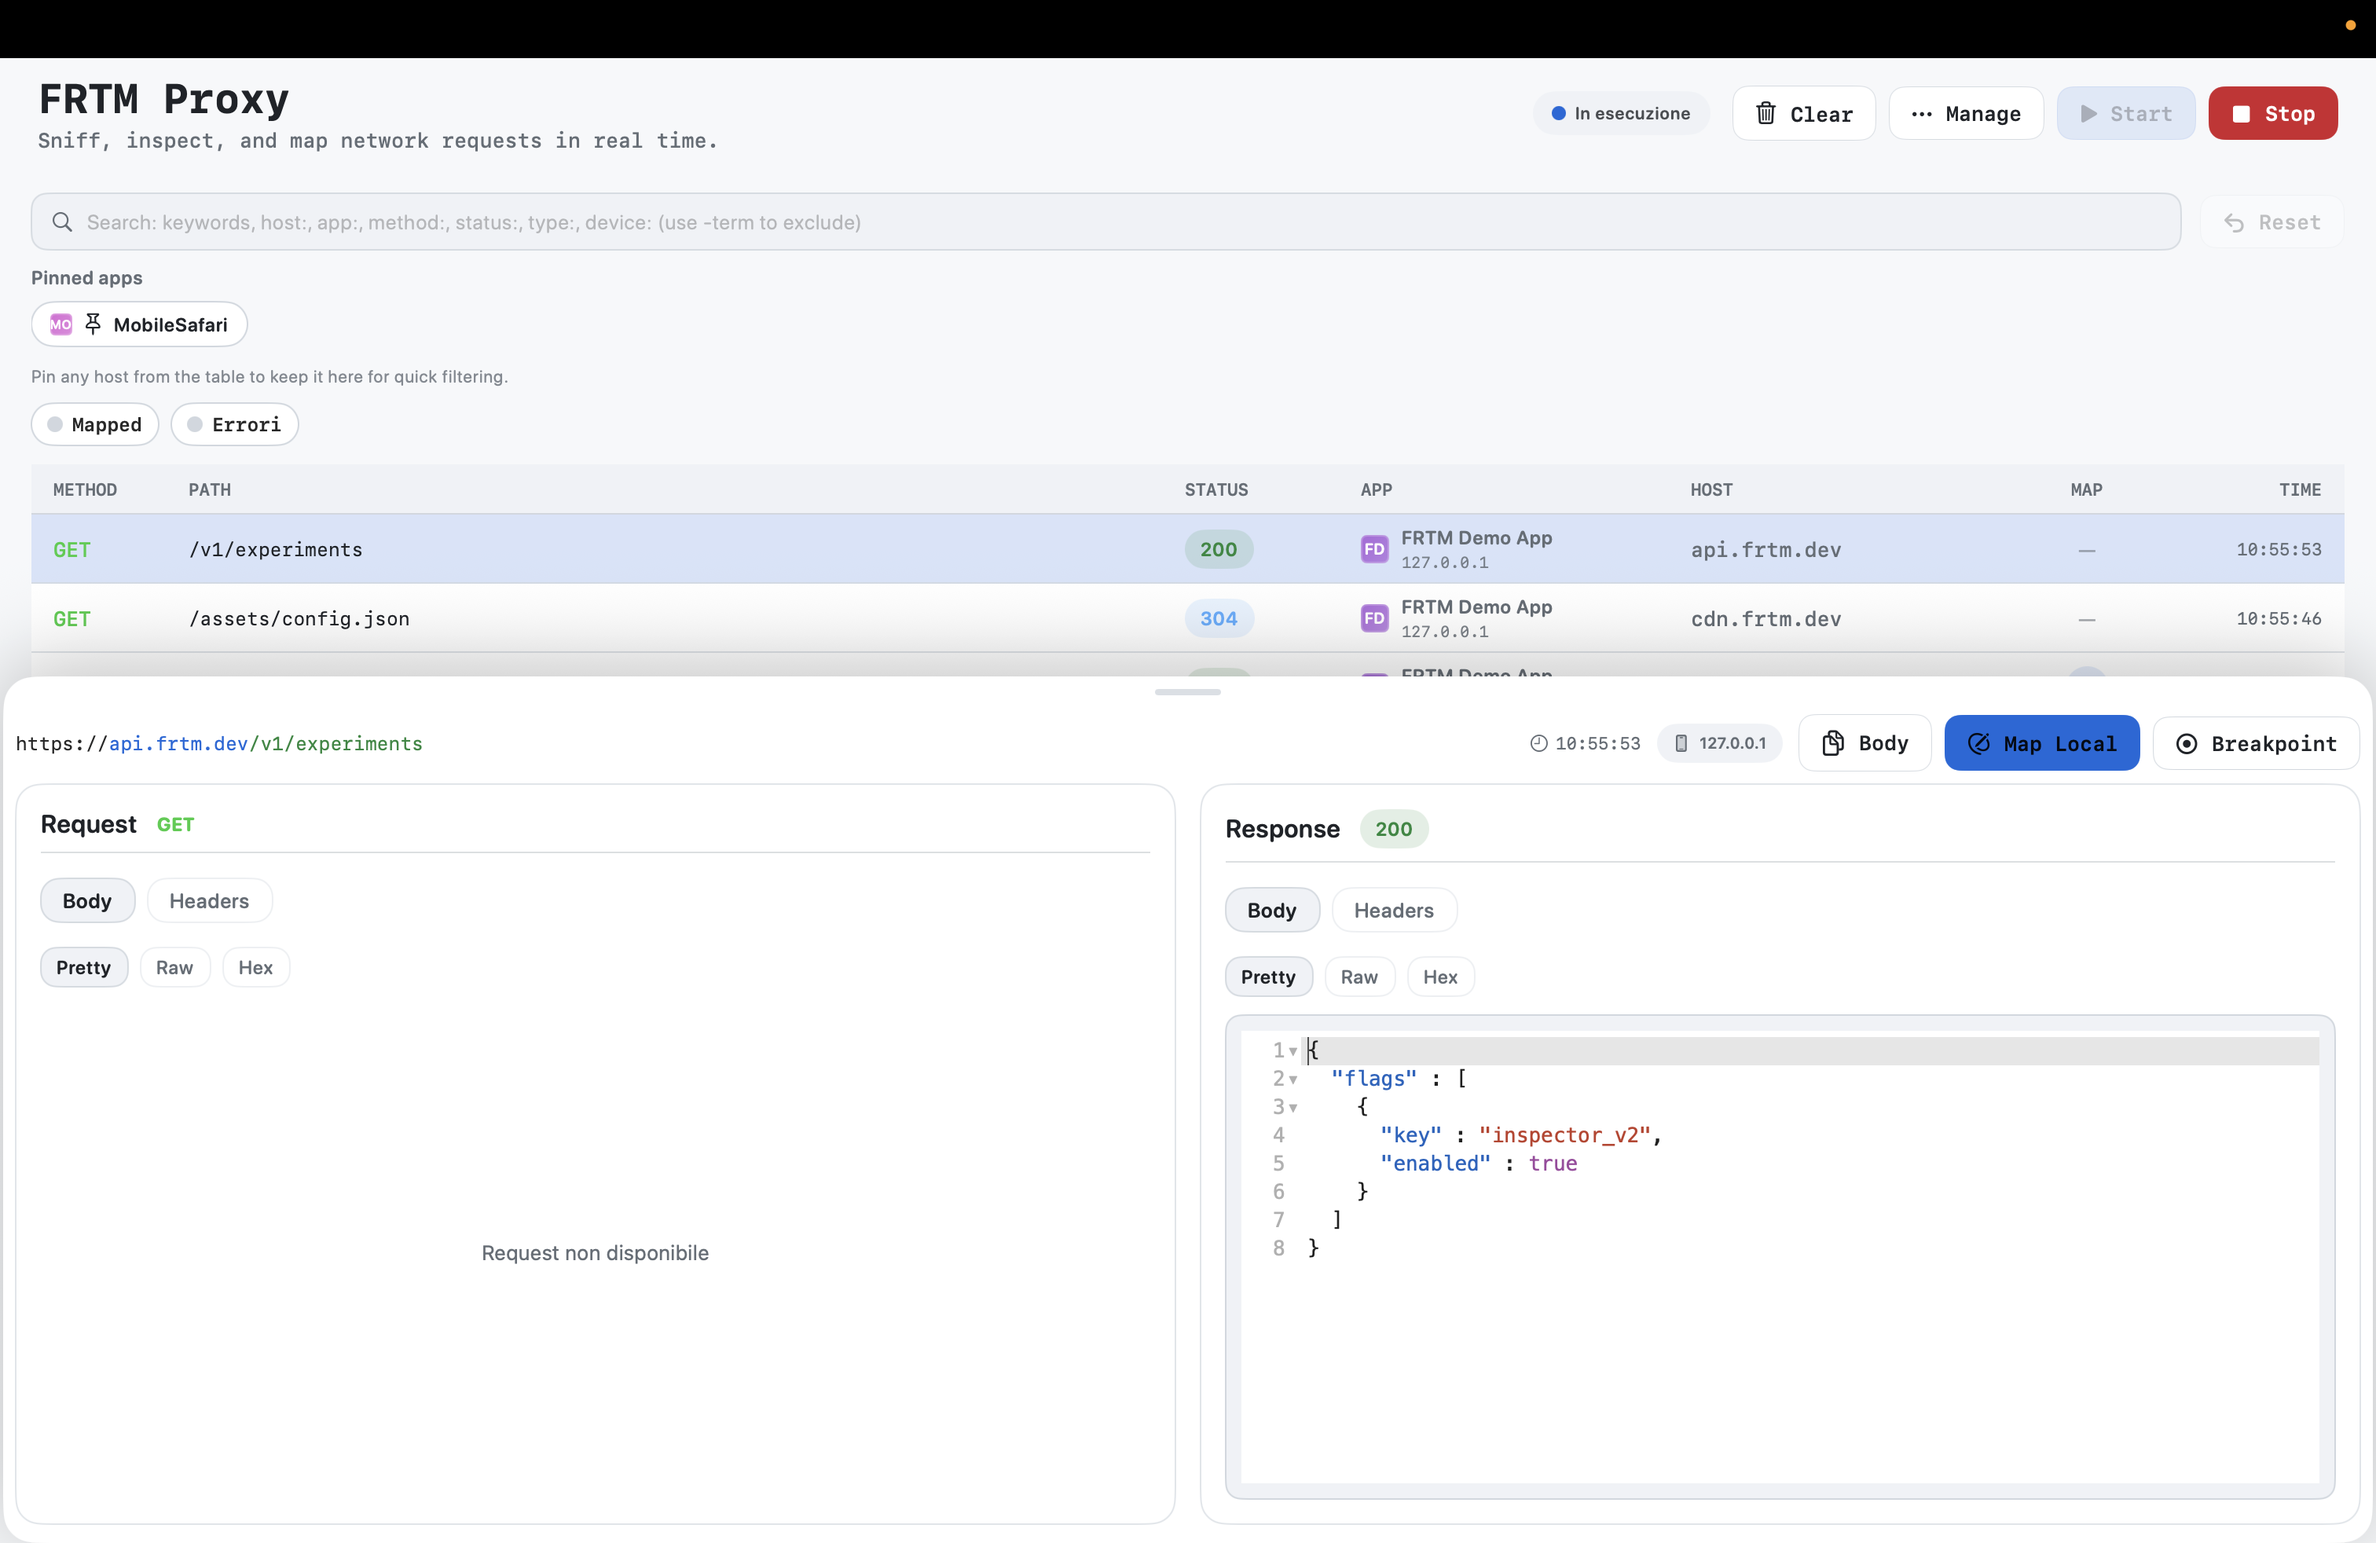
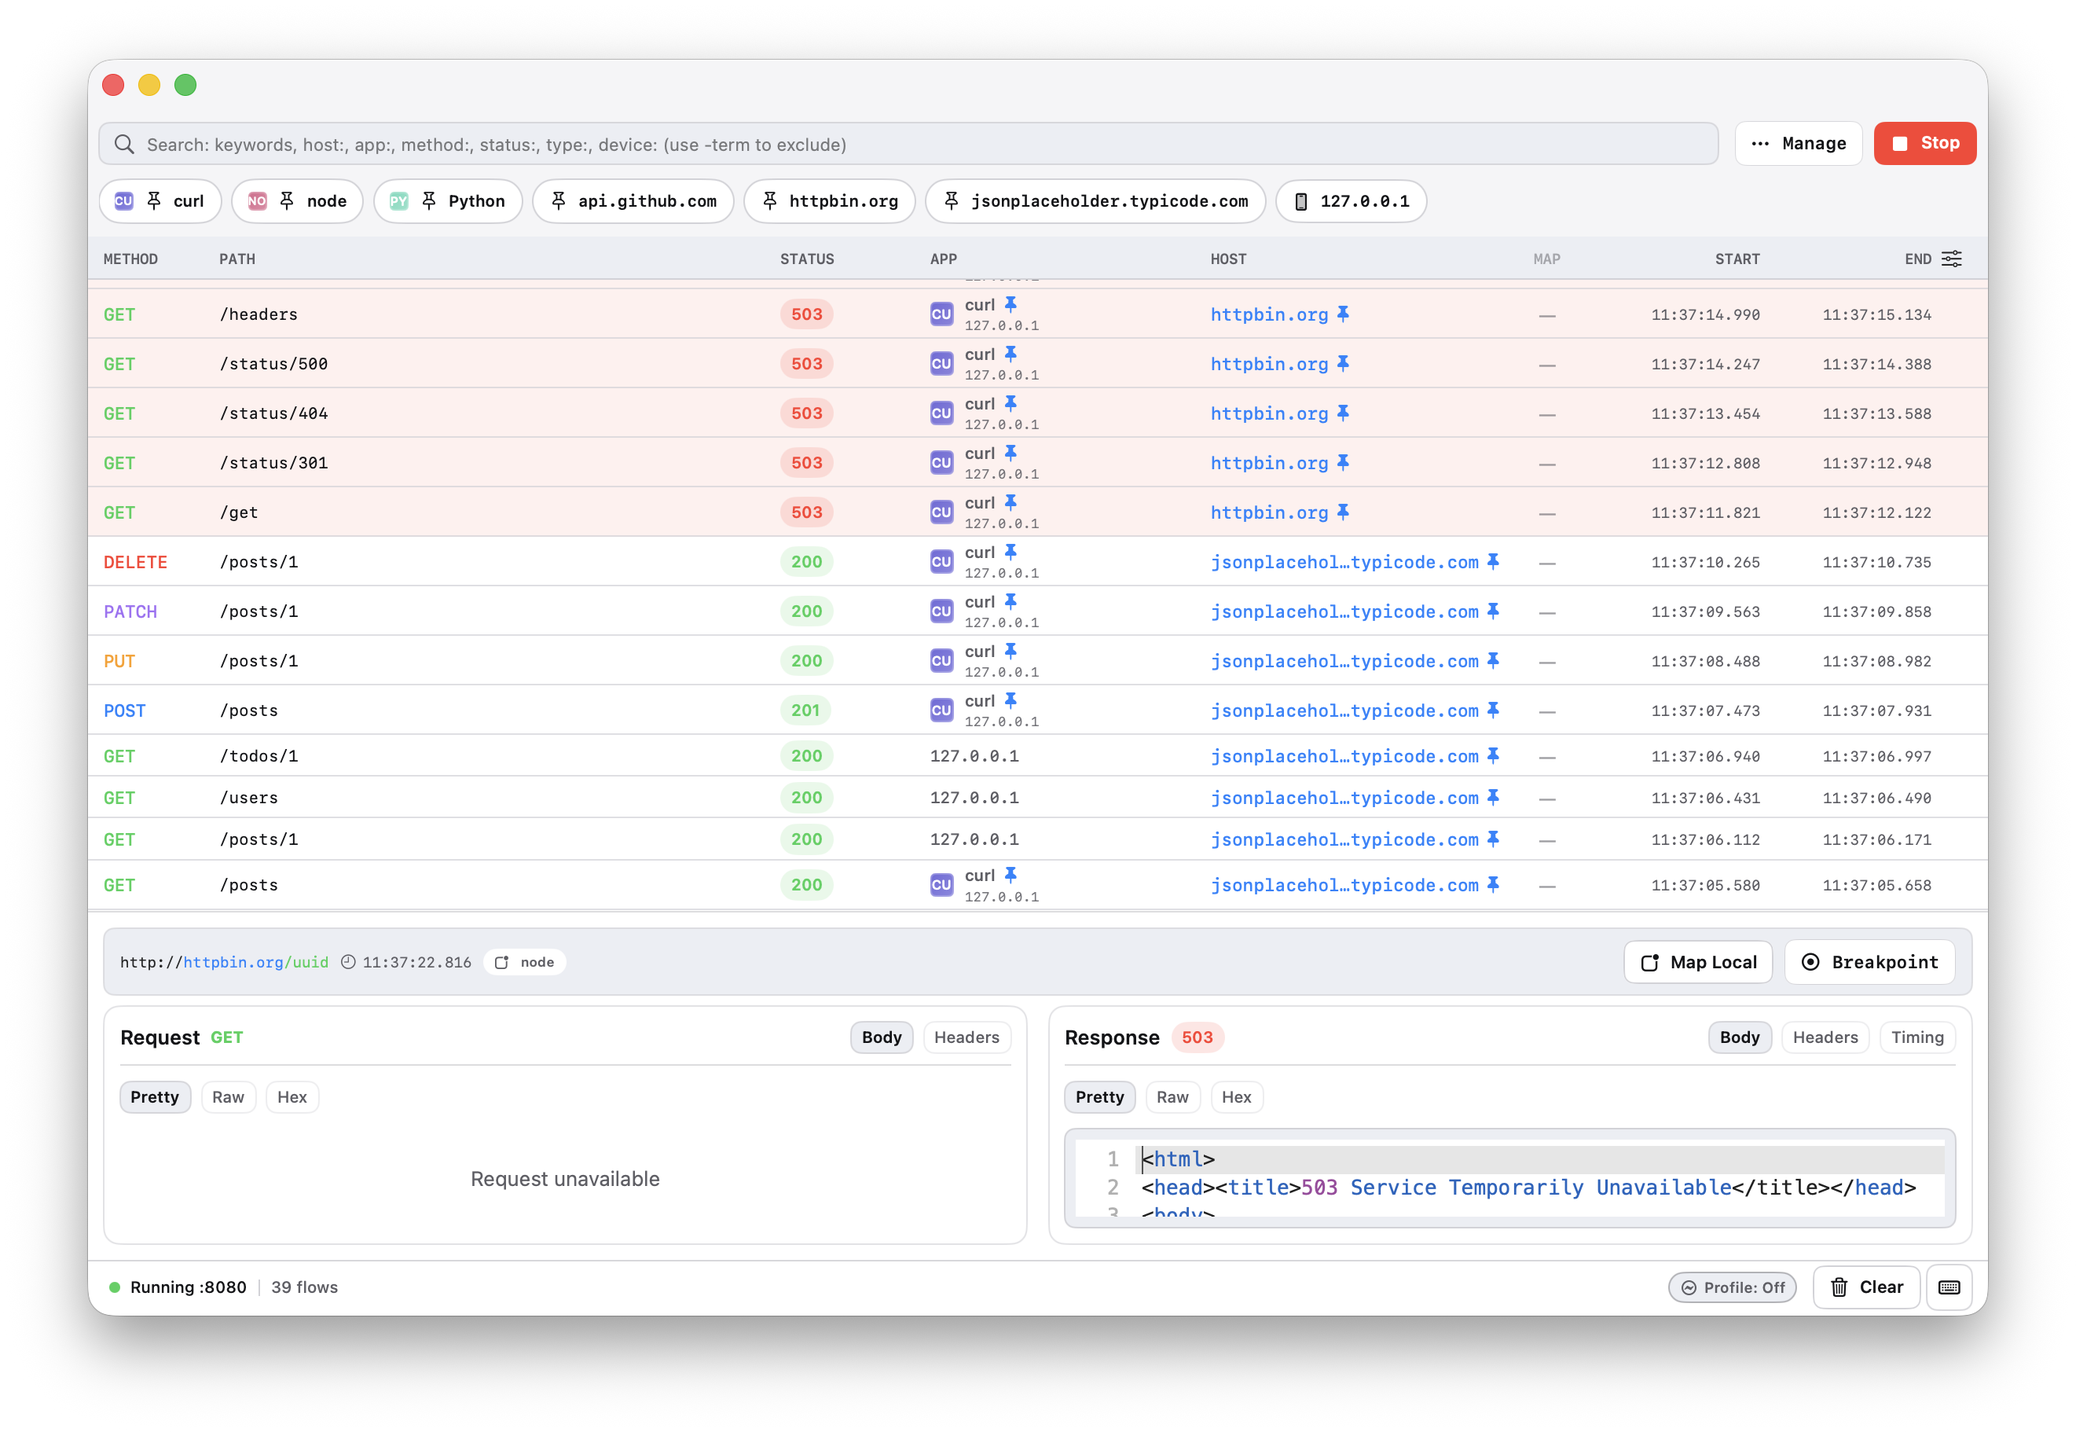
docs(media): add real 1.7.0 screenshots, refresh README and landing gallery
Replace stale pre-refresh captures with fresh 1.7.0 screenshots (Inspector light/dark, Map Local, traffic profiles, device setup) and update the README and landing galleries to match.

diff --git a/site/index.html b/site/index.html
@@ -187,10 +187,10 @@
   <p class="eyebrow">A look inside</p>
   <h2>Native SwiftUI, dark-first</h2>
   <div class="gallery">
-    <img src="https://raw.githubusercontent.com/ValentinoPalomba/FRTMProxy/main/.media/Rules.png" alt="Rules" />
-    <img src="https://raw.githubusercontent.com/ValentinoPalomba/FRTMProxy/main/.media/Collections.png" alt="Collections" />
-    <img src="https://raw.githubusercontent.com/ValentinoPalomba/FRTMProxy/main/.media/Breakpoints.png" alt="Breakpoints" />
-    <img src="https://raw.githubusercontent.com/ValentinoPalomba/FRTMProxy/main/.media/Inspector.png" alt="Inspector light" />
+    <img src="https://raw.githubusercontent.com/ValentinoPalomba/FRTMProxy/main/.media/Inspector.png" alt="Inspector (light)" />
+    <img src="https://raw.githubusercontent.com/ValentinoPalomba/FRTMProxy/main/.media/MapLocal.png" alt="Map Local mock editor" />
+    <img src="https://raw.githubusercontent.com/ValentinoPalomba/FRTMProxy/main/.media/TrafficProfiles.png" alt="Traffic profiles" />
+    <img src="https://raw.githubusercontent.com/ValentinoPalomba/FRTMProxy/main/.media/Device.png" alt="Device setup" />
   </div>
 </div></section>
 

diff --git a/readme.md b/readme.md
@@ -97,17 +97,17 @@ code to install the certificate on a physical device.
 | --- | --- |
 | ![Inspector (Light)](.media/Inspector.png) | ![Inspector (Dark)](.media/Inspector_dark.png) |
 
-### Rules
+### Mock with Map Local
 
-![Rules](.media/Rules.png)
+![Map Local editor](.media/MapLocal.png)
 
-### Collections
+### Traffic profiles & tools
 
-![Collections](.media/Collections.png)
+![Manage menu and traffic profiles](.media/TrafficProfiles.png)
 
-### Breakpoints
+### Device setup
 
-![Breakpoints](.media/Breakpoints.png)
+![Device pairing and certificate install](.media/Device.png)
 
 ---
 
